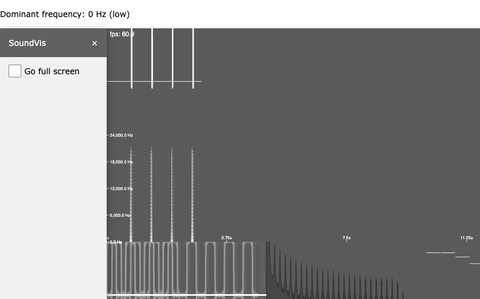
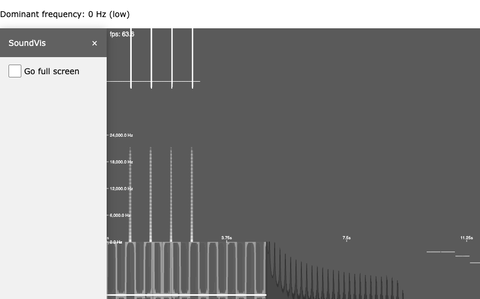
Reconcile previews after bot merge: drop stale SoundVis3/4 webps

diff --git a/index.html b/index.html
@@ -938,7 +938,7 @@
         </div>
       </div>
       <div class="card">
-        <div class="card-thumb"><img class="thumb-anim" src="previews/Sound/SoundVis3.webp" alt="Sound Vis 3 preview" loading="lazy"><img class="thumb-still" src="previews/Sound/SoundVis3.poster.png" alt="Sound Vis 3 preview" loading="lazy"></div><div class="card-body">
+        <div class="card-thumb"><img src="previews/Sound/SoundVis3.poster.png" alt="Sound Vis 3 preview" loading="lazy"></div><div class="card-body">
           <div class="card-name">Sound Vis 3</div>
           <div class="card-meta">SoundVis3</div>
           <div class="card-links">
@@ -948,7 +948,7 @@
         </div>
       </div>
       <div class="card">
-        <div class="card-thumb"><img class="thumb-anim" src="previews/Sound/SoundVis4-ImprovedPerformance.webp" alt="Sound Vis 4 – Improved Performance preview" loading="lazy"><img class="thumb-still" src="previews/Sound/SoundVis4-ImprovedPerformance.poster.png" alt="Sound Vis 4 – Improved Performance preview" loading="lazy"></div><div class="card-body">
+        <div class="card-thumb"><img src="previews/Sound/SoundVis4-ImprovedPerformance.poster.png" alt="Sound Vis 4 – Improved Performance preview" loading="lazy"></div><div class="card-body">
           <div class="card-name">Sound Vis 4 – Improved Performance</div>
           <div class="card-meta">SoundVis4-ImprovedPerformance</div>
           <div class="card-links">
